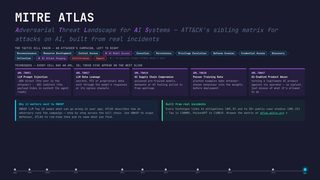
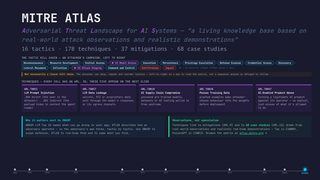
Correct the MITRE ATLAS slide
The tactic chain was missing two tactics. Add Lateral Movement between
Discovery and Collection, and Command and Control between AI Attack
Staging and Exfiltration, bringing the chain to the full 16. Ordering
checked against mitre-atlas/atlas-data, which confirms both the list and
the sequence.

Add current counts under the title -- 16 tactics, 178 techniques, 37
mitigations, 68 case studies -- and correct "30+ public case studies" to
68. (The published dist/ATLAS.yaml is marked deprecated at v5.6.0 and
still reports 180/35/57, so these come from the live matrix.)

Replace "ATT&CK's sibling matrix ... built from real incidents" with
MITRE's own framing: "a living knowledge base based on real-world attack
observations and realistic demonstrations". The right-hand card header
becomes "Observations, not speculation" for the same reason, since the
old one carried the claim being corrected.

Add the caveat that ATLAS is not necessarily a linear kill chain -- the
attacker can skip, repeat and reorder tactics. Softened the OWASP/ATLAS
card, which described ATLAS as running "step by step across the kill
chain" and now contradicted that; the what-can-go-wrong versus
how-adversaries-operate distinction is unchanged.

Changed region(s): [[0.0312, 0.0556, 0.9688, 0.7778], [0.9375, 0.9444, 0.9688, 0.9722], [0.875, 0.9444, 0.9062, 0.9722]]

diff --git a/index.html b/index.html
@@ -7224,7 +7224,8 @@ untrusted context (LLM01)</span></div>
         <section id="ai-atlas">
           <h2 style="margin-bottom:4px;">MITRE ATLAS</h2>
           <p style="margin:0 0 14px;font-size:0.75em;color:#5a7090;font-style:italic;">
-            <strong style="color:var(--secondary-color);">A</strong>dversarial <strong style="color:var(--secondary-color);">T</strong>hreat <strong style="color:var(--secondary-color);">L</strong>andscape for <strong style="color:var(--secondary-color);">A</strong>I <strong style="color:var(--secondary-color);">S</strong>ystems — ATT&amp;CK's sibling matrix for attacks on AI, built from real incidents
+            <strong style="color:var(--secondary-color);">A</strong>dversarial <strong style="color:var(--secondary-color);">T</strong>hreat <strong style="color:var(--secondary-color);">L</strong>andscape for <strong style="color:var(--secondary-color);">A</strong>I <strong style="color:var(--secondary-color);">S</strong>ystems &mdash; &#8220;a living knowledge base based on real-world attack observations and realistic demonstrations&#8221;<br>
+            <span style="font-style:normal;color:#8099b0;font-family:monospace;font-size:0.92em;">16 tactics &middot; 178 techniques &middot; 37 mitigations &middot; 68 case studies</span>
           </p>
 
           <!-- Tactic kill chain -->
@@ -7240,11 +7241,16 @@ untrusted context (LLM01)</span></div>
             <span style="background:rgba(0,217,255,0.10);border:1px solid rgba(0,217,255,0.45);border-radius:3px;padding:3px 7px;color:var(--text-color);">Defense Evasion</span><span style="color:#4a5e70;">→</span>
             <span style="background:rgba(0,217,255,0.10);border:1px solid rgba(0,217,255,0.45);border-radius:3px;padding:3px 7px;color:var(--text-color);">Credential Access</span><span style="color:#4a5e70;">→</span>
             <span style="background:rgba(0,217,255,0.10);border:1px solid rgba(0,217,255,0.45);border-radius:3px;padding:3px 7px;color:var(--text-color);">Discovery</span><span style="color:#4a5e70;">→</span>
+            <span style="background:rgba(0,217,255,0.10);border:1px solid rgba(0,217,255,0.45);border-radius:3px;padding:3px 7px;color:var(--text-color);">Lateral Movement</span><span style="color:#4a5e70;">→</span>
             <span style="background:rgba(0,217,255,0.10);border:1px solid rgba(0,217,255,0.45);border-radius:3px;padding:3px 7px;color:var(--text-color);">Collection</span><span style="color:#4a5e70;">→</span>
             <span style="background:rgba(157,78,221,0.18);border:1px solid rgba(157,78,221,0.8);border-radius:3px;padding:3px 7px;color:#c9a0f0;">★ AI Attack Staging</span><span style="color:#4a5e70;">→</span>
+            <span style="background:rgba(0,217,255,0.10);border:1px solid rgba(0,217,255,0.45);border-radius:3px;padding:3px 7px;color:var(--text-color);">Command and Control</span><span style="color:#4a5e70;">→</span>
             <span style="background:rgba(255,68,68,0.12);border:1px solid rgba(255,68,68,0.6);border-radius:3px;padding:3px 7px;color:#ff8a8a;">Exfiltration</span><span style="color:#4a5e70;">→</span>
             <span style="background:rgba(255,68,68,0.12);border:1px solid rgba(255,68,68,0.6);border-radius:3px;padding:3px 7px;color:#ff8a8a;">Impact</span>
             <span style="margin-left:8px;font-weight:400;font-style:italic;color:#5a7090;font-size:6.5pt;">★ = AI-specific stages ATT&amp;CK doesn't have</span>
+            <div style="flex-basis:100%;margin-top:5px;font-weight:400;font-size:7pt;color:#ffce9e;background:rgba(255,200,0,0.06);border-left:3px solid rgba(255,200,0,0.6);border-radius:3px;padding:4px 9px;">
+              <strong style="color:#ffc800;">Not necessarily a linear kill chain.</strong> <span style="color:var(--muted-color);">The attacker can skip, repeat and reorder tactics &mdash; left-to-right is a way to read the matrix, not a sequence anyone is obliged to follow.</span>
+            </div>
           </div>
 
           <!-- Techniques that appear on the next slide -->
@@ -7281,11 +7287,11 @@ untrusted context (LLM01)</span></div>
           <div style="display:grid;grid-template-columns:1fr 1fr;gap:14px;font-size:8pt;line-height:1.5;">
             <div style="background:rgba(0,217,255,0.06);border-left:4px solid var(--primary-color);border-radius:4px;padding:9px 12px;">
               <strong style="color:var(--primary-color);">Why it matters next to OWASP</strong>
-              <div style="color:var(--muted-color);margin-top:3px;">OWASP LLM Top 10 names <em>what can go wrong</em> in your app; ATLAS describes <em>how an adversary runs the campaign</em> — step by step across the kill chain. Use OWASP to scope defences, ATLAS to red-team them and to name what you find.</div>
+              <div style="color:var(--muted-color);margin-top:3px;">OWASP LLM Top 10 names <em>what can go wrong</em> in your app; ATLAS describes <em>how an adversary operates</em> &mdash; in the adversary's own terms, tactic by tactic. Use OWASP to scope defences, ATLAS to red-team them and to name what you find.</div>
             </div>
             <div style="background:rgba(45,232,160,0.06);border-left:4px solid #2de8a0;border-radius:4px;padding:9px 12px;">
-              <strong style="color:#2de8a0;">Built from real incidents</strong>
-              <div style="color:var(--muted-color);margin-top:3px;">Every technique links to mitigations (AML.M) and to 30+ public case studies (AML.CS) — Tay is <span style="font-family:monospace;">CS0009</span>, PoisonGPT is <span style="font-family:monospace;">CS0019</span>. Browse the matrix at <a href="https://atlas.mitre.org" target="_blank" style="color:#2de8a0;">atlas.mitre.org</a> →</div>
+              <strong style="color:#2de8a0;">Observations, not speculation</strong>
+              <div style="color:var(--muted-color);margin-top:3px;">Techniques link to mitigations (AML.M) and to <strong style="color:#2de8a0;">68 case studies</strong> (AML.CS) drawn from real-world observations and realistic red-team demonstrations &mdash; Tay is <span style="font-family:monospace;">CS0009</span>, PoisonGPT is <span style="font-family:monospace;">CS0019</span>. Browse the matrix at <a href="https://atlas.mitre.org" target="_blank" style="color:#2de8a0;">atlas.mitre.org</a> →</div>
             </div>
           </div>
         </section>
